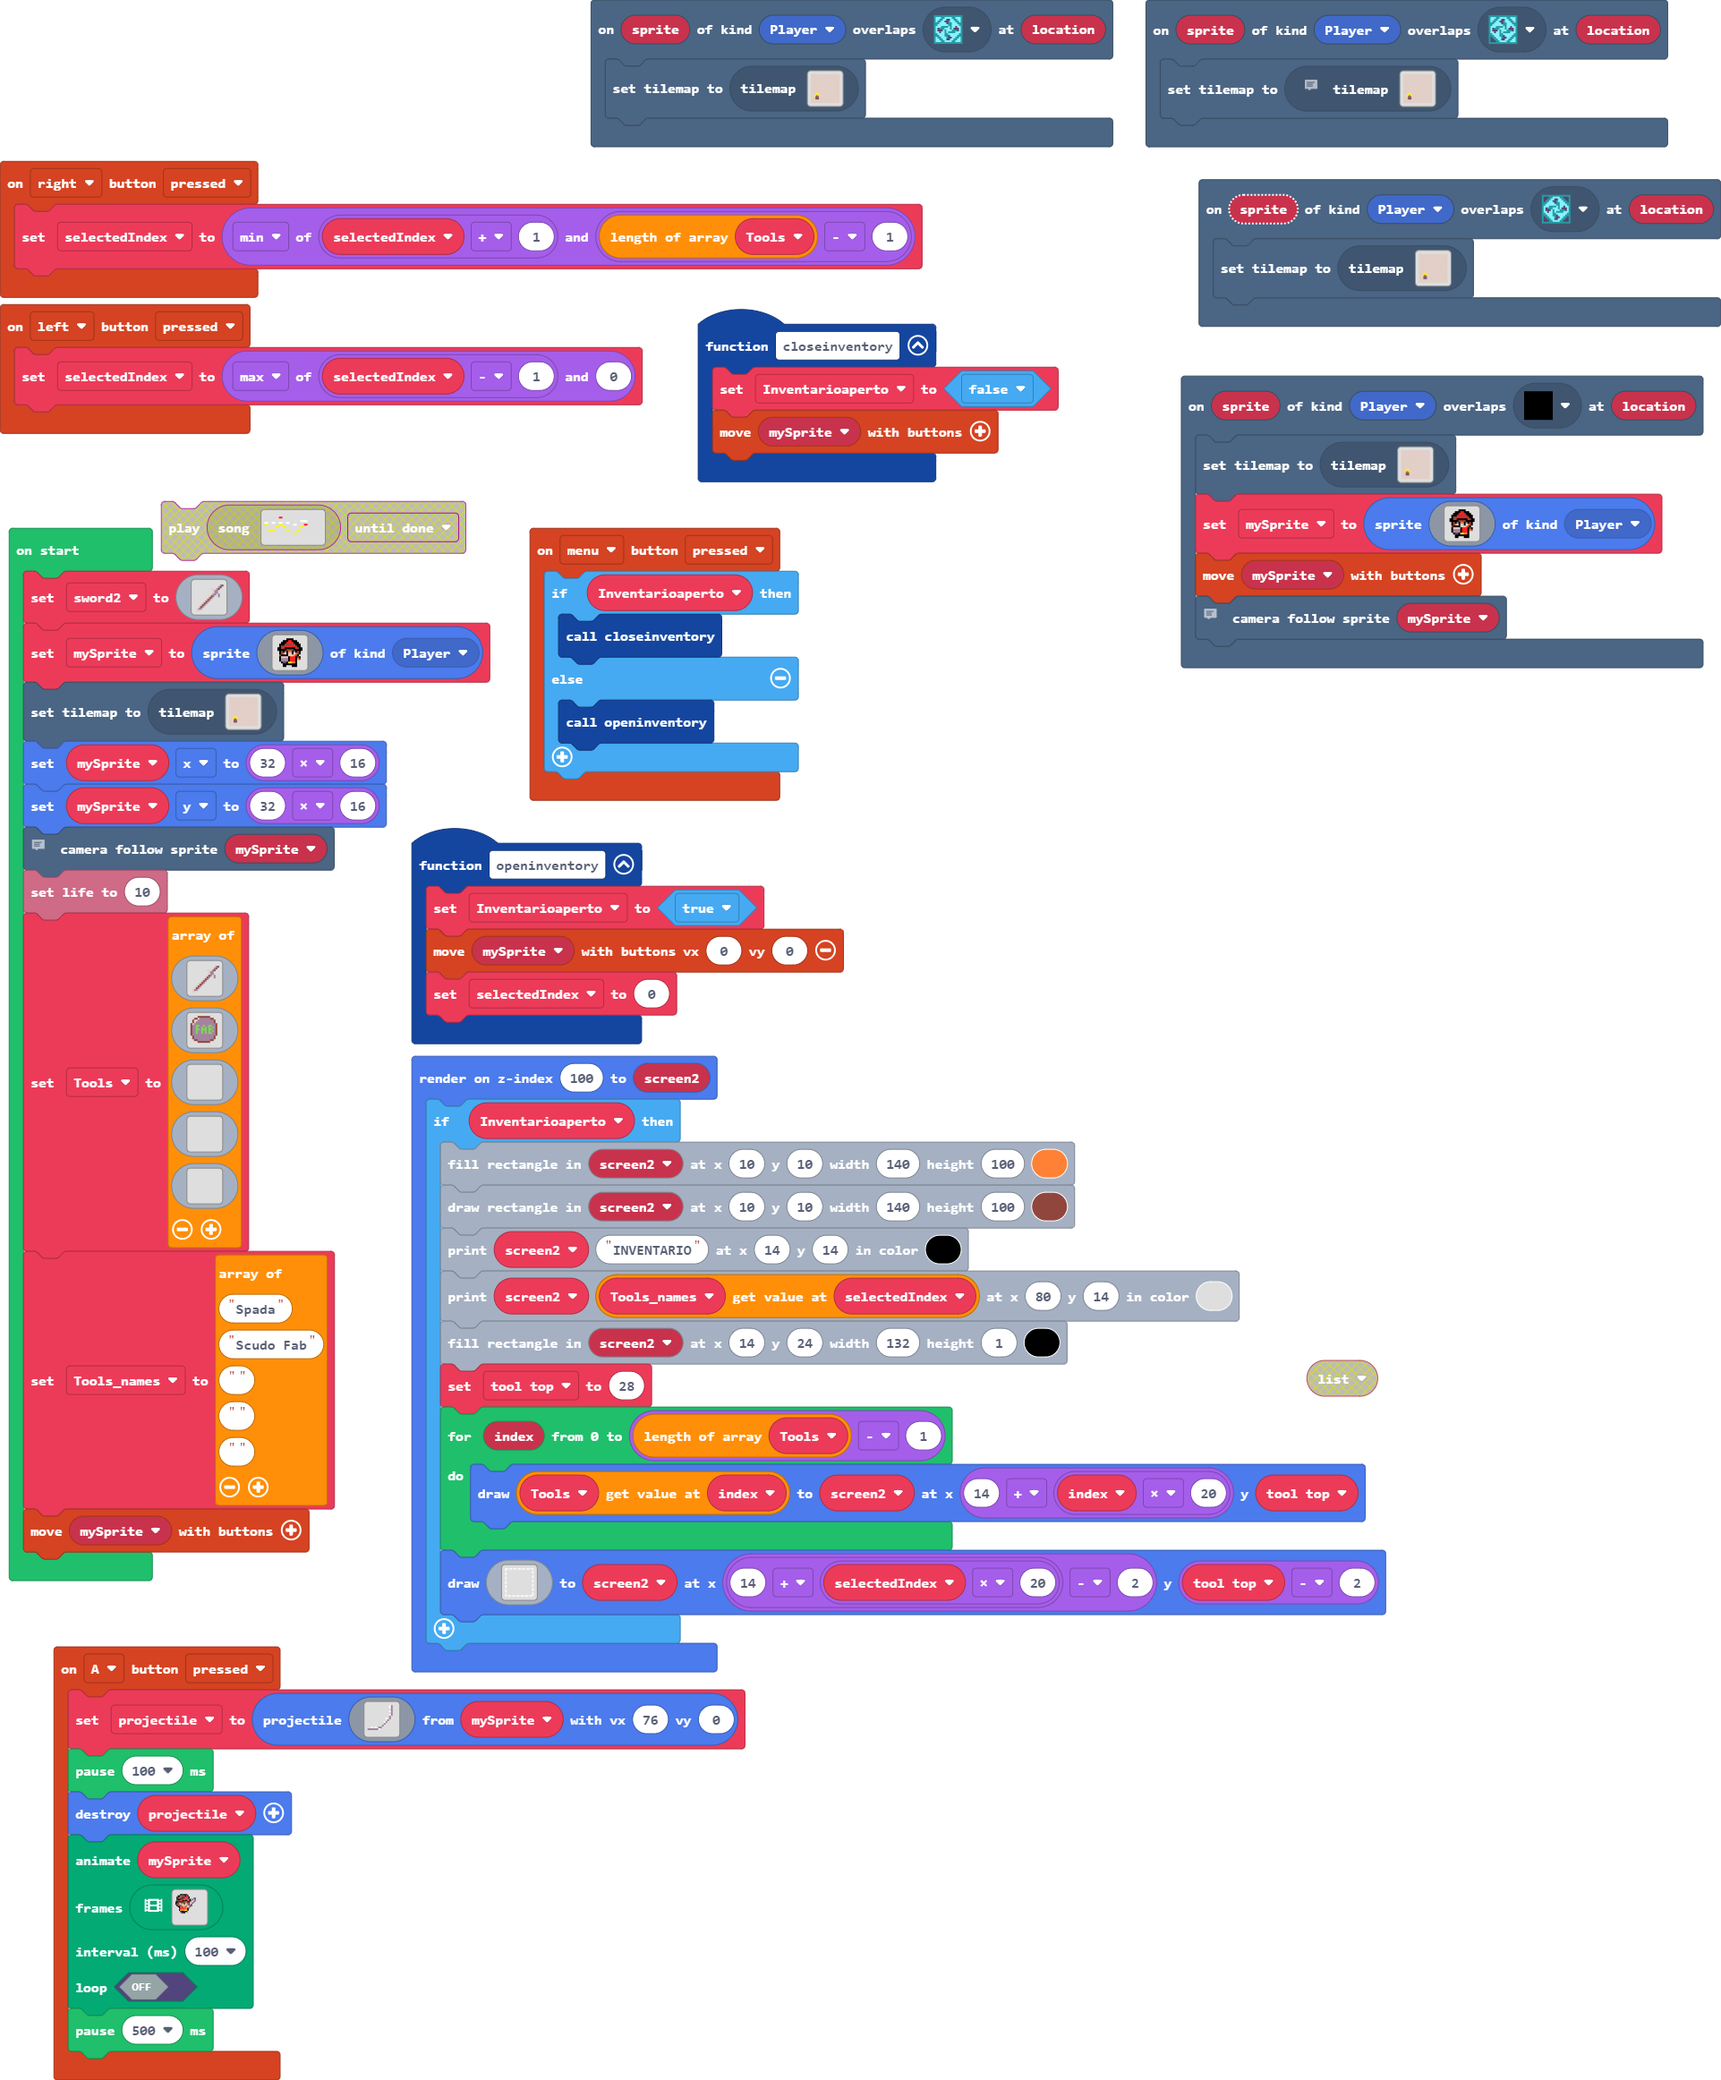
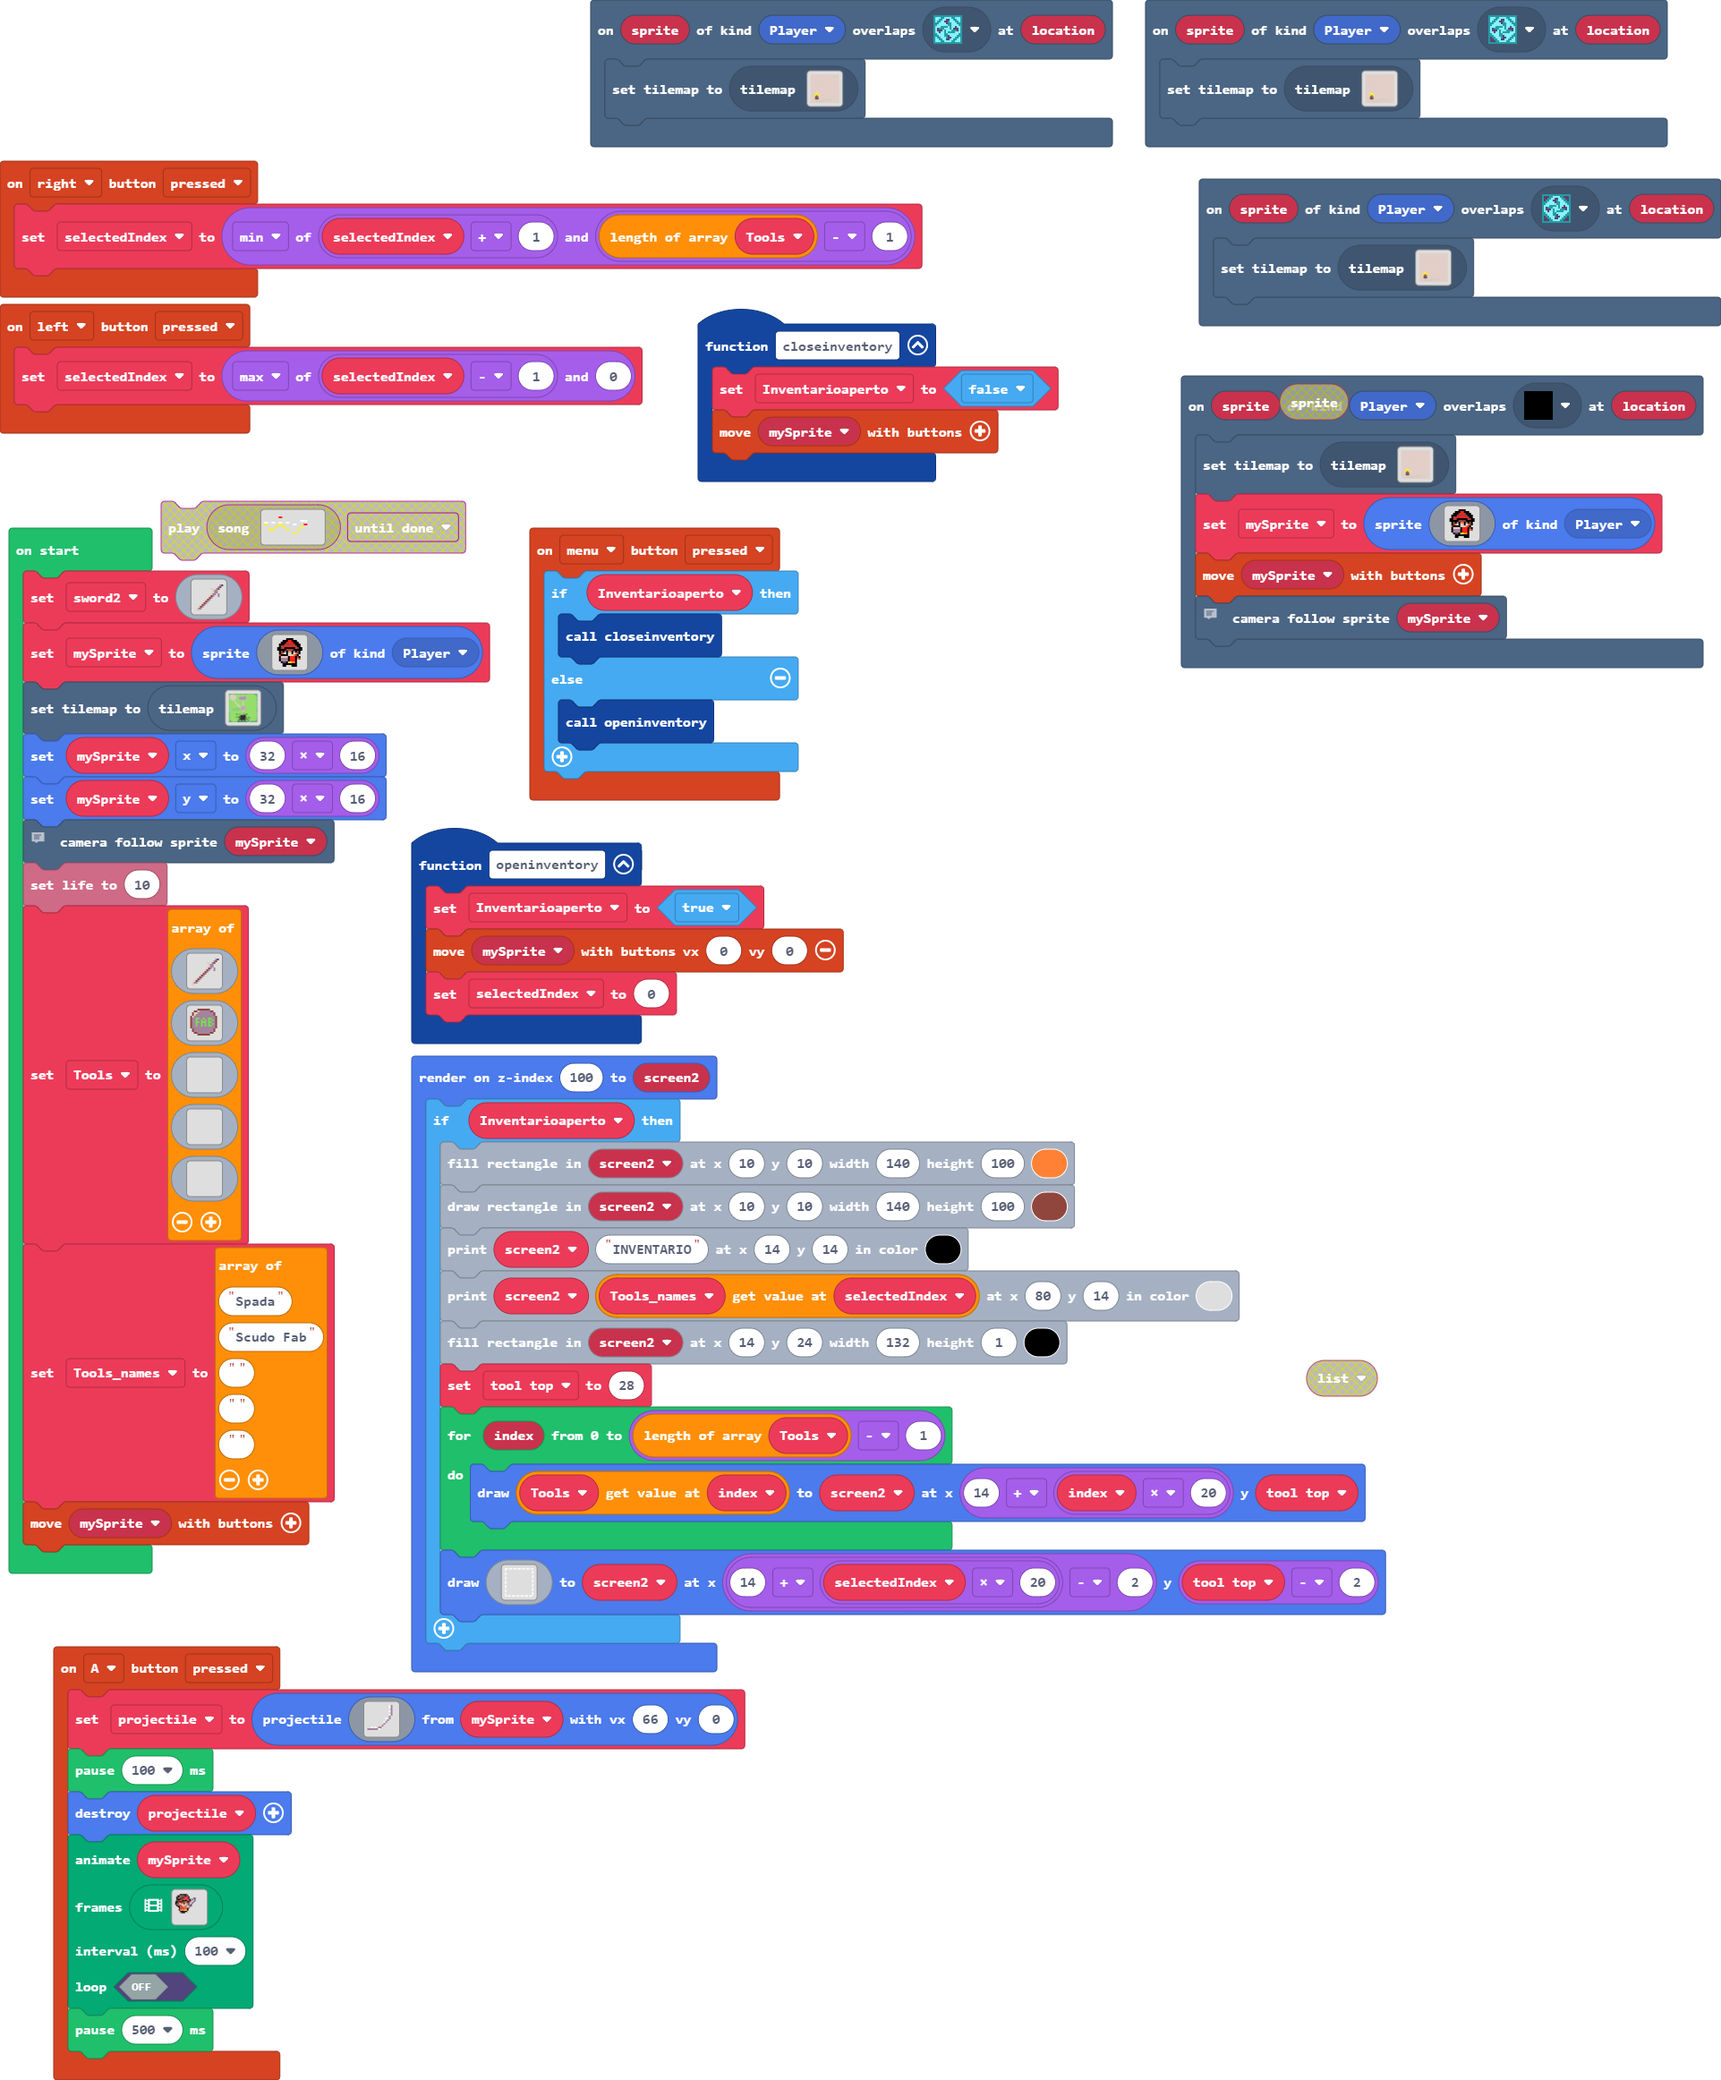
PRVA

diff --git a/tilemap.g.ts b/tilemap.g.ts
@@ -248,7 +248,7 @@ namespace myTiles {
 2222222222222222222222222222222222222222222222222222222222222222
 `, [myTiles.transparency16,sprites.castle.tilePath5,sprites.dungeon.floorMixed,sprites.dungeon.floorLightMoss,sprites.dungeon.floorDark0,sprites.dungeon.floorDarkDiamond,sprites.dungeon.floorDark5,sprites.dungeon.floorLight3,sprites.dungeon.floorLight2,sprites.dungeon.floorLight1,sprites.castle.tilePath6,sprites.castle.tilePath4,sprites.castle.tilePath7,sprites.castle.tilePath3,sprites.dungeon.collectibleInsignia,sprites.builtin.forestTiles4,sprites.builtin.forestTiles0,myTiles.tile4,sprites.castle.tileGrass3,sprites.castle.tilePath9,sprites.castle.tilePath8,sprites.castle.tilePath2,sprites.castle.tilePath1,sprites.castle.tileGrass1,sprites.dungeon.floorLight0,myTiles.tile5,myTiles.tile3,sprites.builtin.forestTiles10,sprites.vehicle.roadHorizontal,myTiles.tile9,myTiles.tile11,myTiles.tile12,myTiles.tile13,sprites.skillmap.islandTile4], TileScale.Sixteen);
             case "level5":
[2 lines of base64/hex data omitted]
 .........................
 .........................
 .........................
@@ -274,7 +274,7 @@ namespace myTiles {
 .........................
 .........................
 .........................
-`, [myTiles.transparency16,sprites.castle.tilePath5,myTiles.tile14,myTiles.tile15,myTiles.tile16,myTiles.tile6,myTiles.tile2,myTiles.tile10,myTiles.tile17,myTiles.tile18,myTiles.tile19,myTiles.tile20,myTiles.tile21], TileScale.Sixteen);
+`, [myTiles.transparency16,sprites.castle.tilePath5,myTiles.tile14,myTiles.tile15,myTiles.tile16,myTiles.tile2,myTiles.tile10,myTiles.tile17,myTiles.tile18,myTiles.tile21,sprites.castle.tilePath8,sprites.castle.tilePath4,sprites.castle.tilePath7,sprites.castle.tilePath9], TileScale.Sixteen);
         }
         return null;
     })

diff --git a/main.ts b/main.ts
@@ -40,7 +40,7 @@ controller.A.onEvent(ControllerButtonEvent.Pressed, function () {
         b b b b b b 1 . . . . . . . . . 
         . . . . . . . . . . . . . . . . 
         . . . . . . . . . . . . . . . . 
-        `, mySprite, 76, 0)
+        `, mySprite, 66, 0)
     pause(100)
     sprites.destroy(projectile)
     animation.runImageAnimation(
@@ -155,12 +155,12 @@ controller.A.onEvent(ControllerButtonEvent.Pressed, function () {
         ..ffffeeeeffff..........
         .ffefbf44fbfeff.........
         .fee41fddf14eef.........
-        ..feeddddddeef..........
-        ...fee4444eef...........
-        ..e4f222222f4e..........
-        ..4df222222fd4..........
-        ..44f445544f44..........
-        .....ffffff.............
+        ..ffffdddddeef..........
+        .fddddf444eef...........
+        .fbbbbf2222f4e..........
+        .fbbbbf2222fd4..........
+        ..fccf45544f44..........
+        ...ffffffff.............
         .....ff..ff.............
         ........................
         ........................
@@ -285,7 +285,7 @@ mySprite = sprites.create(img`
     . . . . f f f f f f f f . . . . 
     . . . . f f . . . f f f . . . . 
     `, SpriteKind.Player)
-tiles.setCurrentTilemap(tilemap`level5`)
+tiles.setCurrentTilemap(tilemap`level2`)
 mySprite.x = 32 * 16
 mySprite.y = 32 * 16
 // spriteutils.moveTo(mySprite, spriteutils.pos(32 * 16, 32 * 16), 100, true)
